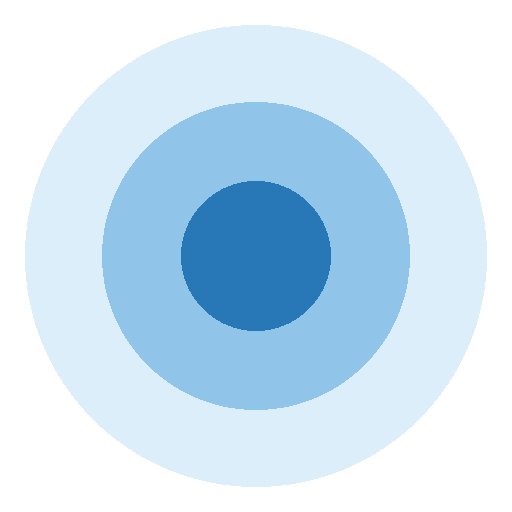
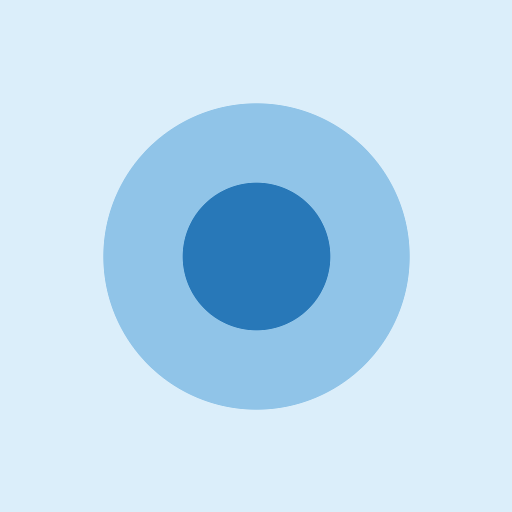
Add files via upload

diff --git a/index.html b/index.html
@@ -5,6 +5,7 @@
 <meta name="viewport" content="width=device-width, initial-scale=1, maximum-scale=1"/>
 <meta name="apple-mobile-web-app-capable" content="yes"/>
 <meta name="apple-mobile-web-app-status-bar-style" content="black-translucent"/>
+<meta name="theme-color" content="#A8CCEA" id="theme-color-meta"/>
 <title>HerSey</title>
[1 lines of base64/hex data omitted]
 <meta name="mobile-web-app-capable" content="yes"/>
@@ -18,7 +19,7 @@
 button{cursor:pointer;-webkit-appearance:none;appearance:none;touch-action:manipulation;}
 button *{pointer-events:none;}
 button svg{pointer-events:none;display:block;}
-html,body{background:#F0F6FF;}
+html{background:var(--header-bg);}body{background:var(--bg);}
 body{font-family:'Nunito',sans-serif;color:#1A2030;padding-bottom:150px;overflow-y:scroll;scrollbar-width:none;-ms-overflow-style:none;}body::-webkit-scrollbar{display:none;}
 
 :root{
@@ -55,6 +56,7 @@ body{font-family:'Nunito',sans-serif;color:#1A2030;padding-bottom:150px;overflow
   --nav-bg:#0E1E30;
 }
 [data-theme="dark"] body{background:#0A1828;color:#E8EFF8;}
+[data-theme="dark"] html{background:var(--header-bg);}
 [data-theme="dark"] .rail{background:var(--rail-bg,rgba(10,24,40,.97));}
 [data-theme="dark"] .field-input{background:#162438;color:#D8EEFF;}
 [data-theme="dark"] .save-btn{background:#2878B8;}
@@ -476,6 +478,7 @@ function showToast(m){
   tt=setTimeout(()=>{t.style.opacity="0";t.style.transform="translateX(-50%) translateY(8px)";},2000);
   _updateUndoBtn();
 }
+let _undoHideTimer=null;
 function _updateUndoBtn(){
   let u=document.getElementById('undo-btn-el');
   if(!u){
@@ -485,8 +488,14 @@ function _updateUndoBtn(){
     u.onclick=undo;
     document.body.appendChild(u);
   }
-  if(_undoStack.length>0){u.classList.add('visible');}
-  else{u.classList.remove('visible');}
+  if(_undoStack.length>0){
+    u.classList.add('visible');
+    if(_undoHideTimer)clearTimeout(_undoHideTimer);
+    _undoHideTimer=setTimeout(()=>u.classList.remove('visible'),5000);
+  } else {
+    u.classList.remove('visible');
+    if(_undoHideTimer)clearTimeout(_undoHideTimer);
+  }
 }
 
 function getCount(id,key){return(state.logs[id]||[]).filter(k=>k===key||k.startsWith(key+"#")).length;}
@@ -816,6 +825,16 @@ function applyRenkTema(tema){
   // rail
   const railEl=document.getElementById('main-rail');
   if(railEl)railEl.style.background=isDark?hexToRgba(t.bgDark,0.97):hexToRgba(t.bg,0.97);
+  // theme-color meta — status bar rengi
+  const tcMeta=document.getElementById('theme-color-meta');
+  if(tcMeta){
+    const hdrColor=isDark
+      ?(t.headerBgDark.match(/#[A-Fa-f0-9]{6}/)||['#183058'])[0]
+      :(t.headerBg.match(/#[A-Fa-f0-9]{6}/)||['#A8CCEA'])[0];
+    tcMeta.setAttribute('content',hdrColor);
+  }
+  // html bg = header rengi (safe area üstü için)
+  document.documentElement.style.background=isDark?t.headerBgDark:t.headerBg;
 }
 
 function hexToRgba(hex,a){